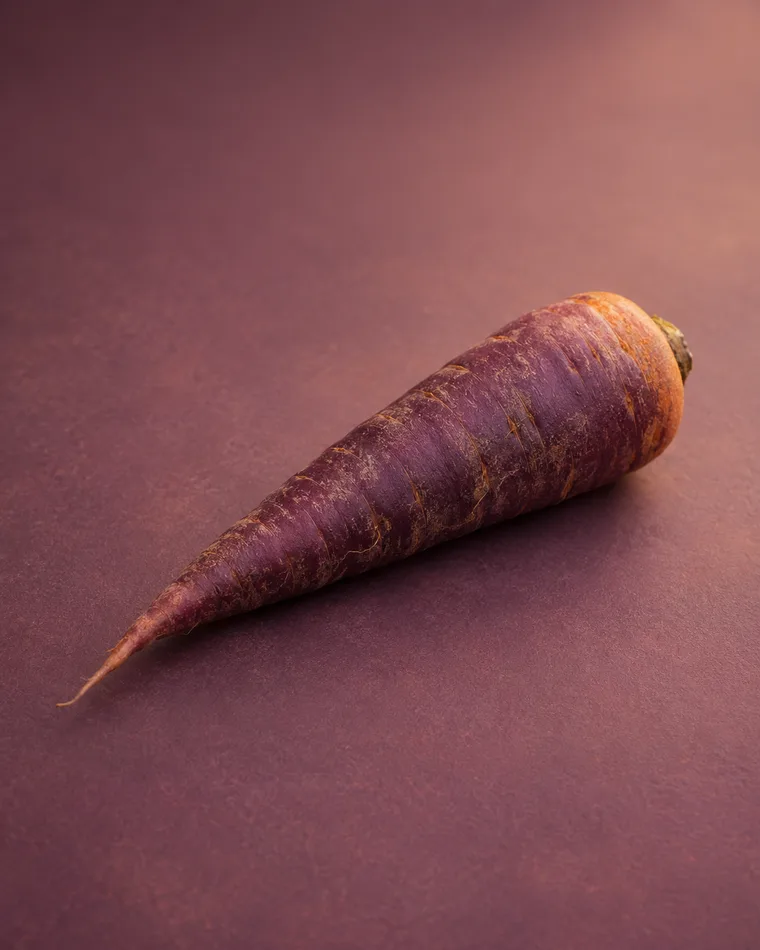
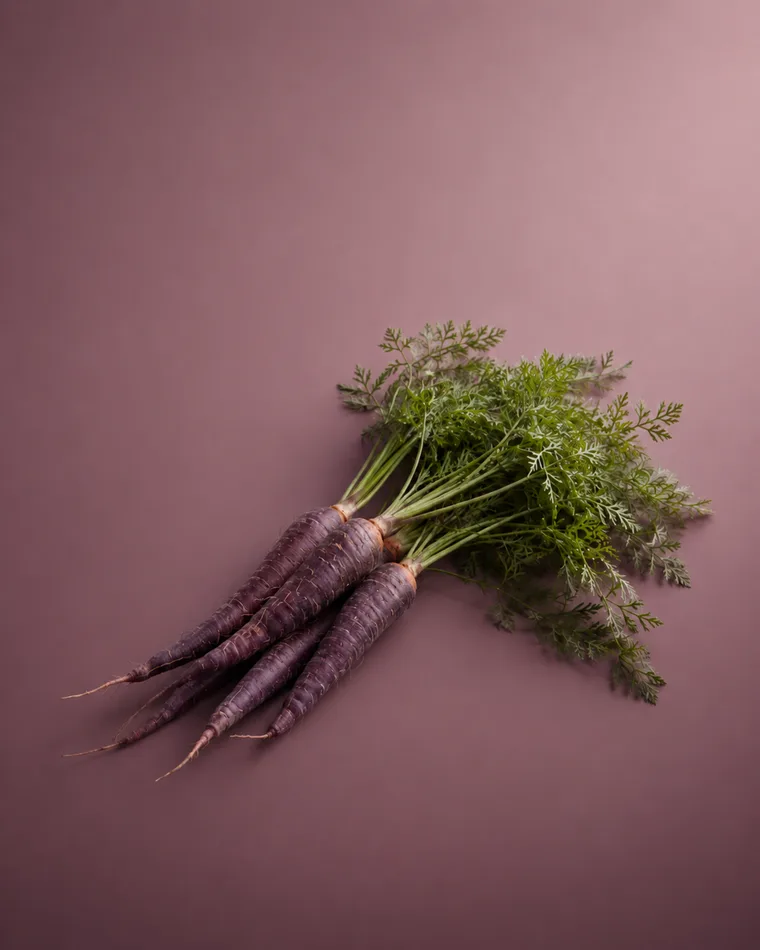
feat(fotos): 72 nye frøkort fra indbakken — 222-batchens grøntsagssorter
Studioformat 1122×1402 → 760px palette-PNG q80 + webp q82 (sharp-batch,
filnavne var slugs). 8 fil-erstatninger af eksisterende kort (bl.a.
aert-ambrosia, gulerod-purple-haze, squash-black-beauty). SLUG-QA
fangede to fejl før commit: 'kaalroe-wilhelmsburge' omdøbt til kanonisk
kaalroe-wilhelmsburger (sorten fandtes allerede med korrekt stavning —
dublet-slug afværget; ny png vinder over gammel jpg i resolveren) og
'burpees-golden' → roedbede-burpee-s-golden (apostrof-reglen, jf.
benary-s). Brandet Palmekål-variant IKKE brugt (frøkortet fandtes) —
arkiveret mærket. resolveSeedCard-QA grøn. Manifest 1182 billeder.
Originaler i _foto-indbakke/arkiv/2026-08-12/.

diff --git a/src/data/image-manifest.generated.ts b/src/data/image-manifest.generated.ts
@@ -8,7 +8,7 @@
  * public/images/. resolvePotalotImage() bruger den til at afgøre
  * om et asset-convention-path findes inden det returneres.
  *
- * Fil-tæller: 1058
+ * Fil-tæller: 1182
  */
 
 export const IMAGE_MANIFEST: ReadonlySet<string> = new Set([
@@ -255,6 +255,14 @@ export const IMAGE_MANIFEST: ReadonlySet<string> = new Set([
   "/images/frokort/agurk-telegraph.webp",
   "/images/frokort/ananas-salvie-scarlet-pineapple.png",
   "/images/frokort/ananas-salvie-scarlet-pineapple.webp",
+  "/images/frokort/artiskok-green-globe.png",
+  "/images/frokort/artiskok-green-globe.webp",
+  "/images/frokort/asparges-gijnlim-f1.png",
+  "/images/frokort/asparges-gijnlim-f1.webp",
+  "/images/frokort/aubergine-black-beauty.png",
+  "/images/frokort/aubergine-black-beauty.webp",
+  "/images/frokort/aubergine-rosa-bianca.png",
+  "/images/frokort/aubergine-rosa-bianca.webp",
   "/images/frokort/basilikum-genovese.png",
   "/images/frokort/basilikum-genovese.webp",
   "/images/frokort/blaabaer-bluecrop.png",
@@ -263,8 +271,18 @@ export const IMAGE_MANIFEST: ReadonlySet<string> = new Set([
   "/images/frokort/blaabaer-duke.webp",
   "/images/frokort/blaahat-perfecta.png",
   "/images/frokort/blaahat-perfecta.webp",
+  "/images/frokort/bladbede-fordhook-giant.png",
+  "/images/frokort/bladbede-fordhook-giant.webp",
+  "/images/frokort/bladbede-rhubarb-chard.png",
+  "/images/frokort/bladbede-rhubarb-chard.webp",
   "/images/frokort/bladselleri-tango.jpg",
   "/images/frokort/bladselleri-tango.webp",
+  "/images/frokort/blomkaal-cheddar-f1.png",
+  "/images/frokort/blomkaal-cheddar-f1.webp",
+  "/images/frokort/blomkaal-graffiti-f1.png",
+  "/images/frokort/blomkaal-graffiti-f1.webp",
+  "/images/frokort/blomkaal-snowball-x.png",
+  "/images/frokort/blomkaal-snowball-x.webp",
   "/images/frokort/blomkaal-snowball.jpg",
   "/images/frokort/blomkaal-snowball.webp",
   "/images/frokort/blomme-victoria.jpg",
@@ -274,12 +292,20 @@ export const IMAGE_MANIFEST: ReadonlySet<string> = new Set([
   "/images/frokort/blomsterkoervel-white-lace.webp",
   "/images/frokort/bonderose-sarah-bernhardt.png",
   "/images/frokort/bonderose-sarah-bernhardt.webp",
+  "/images/frokort/broccoli-aspabroc-f1.png",
+  "/images/frokort/broccoli-aspabroc-f1.webp",
   "/images/frokort/broccoli-calabrese.jpg",
   "/images/frokort/broccoli-calabrese.webp",
+  "/images/frokort/broccoli-early-purple-sprouting.png",
+  "/images/frokort/broccoli-early-purple-sprouting.webp",
   "/images/frokort/broendkarse-aqua.png",
   "/images/frokort/broendkarse-aqua.webp",
   "/images/frokort/brombaer-loch-ness.png",
   "/images/frokort/brombaer-loch-ness.webp",
+  "/images/frokort/buskboenne-provider.png",
+  "/images/frokort/buskboenne-provider.webp",
+  "/images/frokort/buskboenne-purple-queen.png",
+  "/images/frokort/buskboenne-purple-queen.webp",
   "/images/frokort/chili-de-cayenne.png",
   "/images/frokort/chili-de-cayenne.webp",
   "/images/frokort/chili-habanero-orange.png",
@@ -288,8 +314,12 @@ export const IMAGE_MANIFEST: ReadonlySet<string> = new Set([
   "/images/frokort/chili-jalapeno.webp",
   "/images/frokort/chili-lemon-drop.png",
   "/images/frokort/chili-lemon-drop.webp",
+  "/images/frokort/chili-numex-twilight.png",
+  "/images/frokort/chili-numex-twilight.webp",
   "/images/frokort/chili-padron.png",
   "/images/frokort/chili-padron.webp",
+  "/images/frokort/cikorie-catalogna.png",
+  "/images/frokort/cikorie-catalogna.webp",
   "/images/frokort/citronmelisse-citronella.png",
   "/images/frokort/citronmelisse-citronella.webp",
   "/images/frokort/citrontimian-silver-queen.png",
@@ -308,15 +338,20 @@ export const IMAGE_MANIFEST: ReadonlySet<string> = new Set([
   "/images/frokort/dahlia-thomas-edison.webp",
   "/images/frokort/dild-bouquet.png",
   "/images/frokort/dild-bouquet.webp",
+  "/images/frokort/endivie-escariol-green.png",
+  "/images/frokort/endivie-escariol-green.webp",
   "/images/frokort/engblomme-golden-queen.png",
   "/images/frokort/engblomme-golden-queen.webp",
   "/images/frokort/estragon-french.png",
   "/images/frokort/estragon-french.webp",
+  "/images/frokort/fennikel-bronze.png",
+  "/images/frokort/fennikel-bronze.webp",
   "/images/frokort/fersken-redhaven.png",
   "/images/frokort/fersken-redhaven.webp",
   "/images/frokort/figen-brown-turkey.png",
   "/images/frokort/figen-brown-turkey.webp",
   "/images/frokort/foraarsloeg-white-lisbon.jpg",
+  "/images/frokort/foraarsloeg-white-lisbon.png",
   "/images/frokort/foraarsloeg-white-lisbon.webp",
   "/images/frokort/fransk-anemone-de-caen-red.png",
   "/images/frokort/fransk-anemone-de-caen-red.webp",
@@ -336,12 +371,18 @@ export const IMAGE_MANIFEST: ReadonlySet<string> = new Set([
   "/images/frokort/graeskar-waltham-butternut.webp",
   "/images/frokort/groenkaal-red-russian.png",
   "/images/frokort/groenkaal-red-russian.webp",
+  "/images/frokort/groenkaal-redbor-f1.png",
+  "/images/frokort/groenkaal-redbor-f1.webp",
   "/images/frokort/gulerod-nantes.png",
   "/images/frokort/gulerod-nantes.webp",
+  "/images/frokort/gulerod-paris-market.png",
+  "/images/frokort/gulerod-paris-market.webp",
   "/images/frokort/gulerod-purple-haze.png",
   "/images/frokort/gulerod-purple-haze.webp",
   "/images/frokort/hassel-cosford.png",
   "/images/frokort/hassel-cosford.webp",
+  "/images/frokort/havrerod-mammoth-sandwich-island.png",
+  "/images/frokort/havrerod-mammoth-sandwich-island.webp",
   "/images/frokort/hindbaer-autumn-bliss.png",
   "/images/frokort/hindbaer-autumn-bliss.webp",
   "/images/frokort/hindbaer-tulameen.png",
@@ -354,6 +395,8 @@ export const IMAGE_MANIFEST: ReadonlySet<string> = new Set([
   "/images/frokort/hvidloeg-messidrome.webp",
   "/images/frokort/hvidloeg-printanor.png",
   "/images/frokort/hvidloeg-printanor.webp",
+  "/images/frokort/hvidloeg-purple-wight.png",
+  "/images/frokort/hvidloeg-purple-wight.webp",
   "/images/frokort/hvidloeg-sabadrome.png",
   "/images/frokort/hvidloeg-sabadrome.webp",
   "/images/frokort/hvidloeg-thermidrome.png",
@@ -368,20 +411,43 @@ export const IMAGE_MANIFEST: ReadonlySet<string> = new Set([
   "/images/frokort/jordbaer-mara-des-bois.webp",
   "/images/frokort/jordbaer-polka.png",
   "/images/frokort/jordbaer-polka.webp",
+  "/images/frokort/jordbaer-white-soul.png",
+  "/images/frokort/jordbaer-white-soul.webp",
+  "/images/frokort/jordmandel-chufa.png",
+  "/images/frokort/jordmandel-chufa.webp",
+  "/images/frokort/jordskok-fuseau.png",
+  "/images/frokort/jordskok-fuseau.webp",
   "/images/frokort/jungleagurk-mexican-sour-gherkin.png",
   "/images/frokort/jungleagurk-mexican-sour-gherkin.webp",
+  "/images/frokort/kaalrabi-azur-star.png",
+  "/images/frokort/kaalrabi-azur-star.webp",
   "/images/frokort/kaalroe-wilhelmsburger.jpg",
+  "/images/frokort/kaalroe-wilhelmsburger.png",
   "/images/frokort/kaalroe-wilhelmsburger.webp",
+  "/images/frokort/kardon-bianco-avorio.png",
+  "/images/frokort/kardon-bianco-avorio.webp",
+  "/images/frokort/kartoffel-mayan-gold.png",
+  "/images/frokort/kartoffel-mayan-gold.webp",
   "/images/frokort/kartoffel-solist.jpg",
   "/images/frokort/kartoffel-solist.webp",
+  "/images/frokort/kartoffel-vitelotte.png",
+  "/images/frokort/kartoffel-vitelotte.webp",
+  "/images/frokort/kinakaal-michihili.png",
+  "/images/frokort/kinakaal-michihili.webp",
+  "/images/frokort/kinakaal-scarlette-f1.png",
+  "/images/frokort/kinakaal-scarlette-f1.webp",
   "/images/frokort/kirsebaer-stella.png",
   "/images/frokort/kirsebaer-stella.webp",
   "/images/frokort/klematis-princess-diana.png",
   "/images/frokort/klematis-princess-diana.webp",
+  "/images/frokort/knoldfennikel-romanesco.png",
+  "/images/frokort/knoldfennikel-romanesco.webp",
   "/images/frokort/knoldselleri-monarch.jpg",
   "/images/frokort/knoldselleri-monarch.webp",
   "/images/frokort/koervel-vertissimo.png",
   "/images/frokort/koervel-vertissimo.webp",
+  "/images/frokort/komatsuna-green-boy.png",
+  "/images/frokort/komatsuna-green-boy.webp",
   "/images/frokort/koriander-leisure.jpg",
   "/images/frokort/koriander-leisure.webp",
   "/images/frokort/kornblomst-blue-boy.png",
@@ -402,6 +468,8 @@ export const IMAGE_MANIFEST: ReadonlySet<string> = new Set([
   "/images/frokort/levkoej-vintage-rose.webp",
   "/images/frokort/levkoej-white-goddess.png",
   "/images/frokort/levkoej-white-goddess.webp",
+  "/images/frokort/loeg-long-red-florence.png",
+  "/images/frokort/loeg-long-red-florence.webp",
   "/images/frokort/loeg-sturon.png",
   "/images/frokort/loeg-sturon.webp",
   "/images/frokort/loevemund-potomac-appleblossom.png",
@@ -411,6 +479,7 @@ export const IMAGE_MANIFEST: ReadonlySet<string> = new Set([
   "/images/frokort/maelkeklokke-prichard-s-variety.png",
   "/images/frokort/maelkeklokke-prichard-s-variety.webp",
   "/images/frokort/majroe-purple-top-milan.jpg",
+  "/images/frokort/majroe-purple-top-milan.png",
   "/images/frokort/majroe-purple-top-milan.webp",
   "/images/frokort/majs-golden-bantam.png",
   "/images/frokort/majs-golden-bantam.webp",
@@ -418,10 +487,14 @@ export const IMAGE_MANIFEST: ReadonlySet<string> = new Set([
   "/images/frokort/majs-incredible-f1.webp",
   "/images/frokort/majs-sweet-nugget.png",
   "/images/frokort/majs-sweet-nugget.webp",
+  "/images/frokort/mangold-bright-lights.png",
+  "/images/frokort/mangold-bright-lights.webp",
   "/images/frokort/marguerit-alaska.png",
   "/images/frokort/marguerit-alaska.webp",
   "/images/frokort/mirabel-nancy.png",
   "/images/frokort/mirabel-nancy.webp",
+  "/images/frokort/mizuna-early.png",
+  "/images/frokort/mizuna-early.webp",
   "/images/frokort/morgenfrue-indian-prince.png",
   "/images/frokort/morgenfrue-indian-prince.webp",
   "/images/frokort/mynte-after-eight.png",
@@ -432,6 +505,8 @@ export const IMAGE_MANIFEST: ReadonlySet<string> = new Set([
   "/images/frokort/nigella-african-bride.webp",
   "/images/frokort/nigella-miss-jekyll-blue.png",
   "/images/frokort/nigella-miss-jekyll-blue.webp",
+  "/images/frokort/okra-clemson-spineless.png",
+  "/images/frokort/okra-clemson-spineless.webp",
   "/images/frokort/oregano-greek.png",
   "/images/frokort/oregano-greek.webp",
   "/images/frokort/paeonvalmue-coral-reef.png",
@@ -439,14 +514,22 @@ export const IMAGE_MANIFEST: ReadonlySet<string> = new Set([
   "/images/frokort/paere-conference.jpg",
   "/images/frokort/paere-conference.png",
   "/images/frokort/paere-conference.webp",
+  "/images/frokort/pak-choi-joi-choi-f1.png",
+  "/images/frokort/pak-choi-joi-choi-f1.webp",
   "/images/frokort/pak-choi-joi-choi.png",
   "/images/frokort/pak-choi-joi-choi.webp",
+  "/images/frokort/pak-choi-red-choi.png",
+  "/images/frokort/pak-choi-red-choi.webp",
   "/images/frokort/palmekaal-nero-di-toscana.jpg",
   "/images/frokort/palmekaal-nero-di-toscana.webp",
+  "/images/frokort/pastinak-gladiator-f1.png",
+  "/images/frokort/pastinak-gladiator-f1.webp",
   "/images/frokort/pastinak-white-gem.jpg",
   "/images/frokort/pastinak-white-gem.webp",
   "/images/frokort/peberfrugt-california-wonder.png",
   "/images/frokort/peberfrugt-california-wonder.webp",
+  "/images/frokort/peberfrugt-chocolate-beauty.png",
+  "/images/frokort/peberfrugt-chocolate-beauty.webp",
   "/images/frokort/peberfrugt-corno-di-toro-giallo.png",
   "/images/frokort/peberfrugt-corno-di-toro-giallo.webp",
   "/images/frokort/peberfrugt-corno-di-toro-rosso.png",
@@ -455,13 +538,25 @@ export const IMAGE_MANIFEST: ReadonlySet<string> = new Set([
   "/images/frokort/peberfrugt-purple-beauty.webp",
   "/images/frokort/peberfrugt-yolo-wonder.png",
   "/images/frokort/peberfrugt-yolo-wonder.webp",
+  "/images/frokort/peberrod-bohemia.png",
+  "/images/frokort/peberrod-bohemia.webp",
   "/images/frokort/persille-bredbladet.jpg",
   "/images/frokort/persille-bredbladet.png",
   "/images/frokort/persille-bredbladet.webp",
+  "/images/frokort/persillerod-berliner.png",
+  "/images/frokort/persillerod-berliner.webp",
   "/images/frokort/persillerod.jpg",
   "/images/frokort/persillerod.webp",
+  "/images/frokort/porre-musselburgh.png",
+  "/images/frokort/porre-musselburgh.webp",
   "/images/frokort/purloeg-prager.png",
   "/images/frokort/purloeg-prager.webp",
+  "/images/frokort/rabarber-timperley-early.png",
+  "/images/frokort/rabarber-timperley-early.webp",
+  "/images/frokort/rabarber-victoria.png",
+  "/images/frokort/rabarber-victoria.webp",
+  "/images/frokort/radise-black-spanish-round.png",
+  "/images/frokort/radise-black-spanish-round.webp",
   "/images/frokort/radise-cherry-belle.png",
   "/images/frokort/radise-cherry-belle.webp",
   "/images/frokort/radise-french-breakfast.png",
@@ -483,6 +578,14 @@ export const IMAGE_MANIFEST: ReadonlySet<string> = new Set([
   "/images/frokort/roedbede-boldor.webp",
   "/images/frokort/roedbede-boltardy.png",
   "/images/frokort/roedbede-boltardy.webp",
+  "/images/frokort/roedbede-burpee-s-golden.png",
+  "/images/frokort/roedbede-burpee-s-golden.webp",
+  "/images/frokort/roedbede-chioggia.png",
+  "/images/frokort/roedbede-chioggia.webp",
+  "/images/frokort/roedkaal-rodynda.png",
+  "/images/frokort/roedkaal-rodynda.webp",
+  "/images/frokort/romanesco-veronica-f1.png",
+  "/images/frokort/romanesco-veronica-f1.webp",
   "/images/frokort/rose-gertrude-jekyll.png",
   "/images/frokort/rose-gertrude-jekyll.webp",
   "/images/frokort/rose-lykkefund.png",
@@ -496,7 +599,10 @@ export const IMAGE_MANIFEST: ReadonlySet<string> = new Set([
   "/images/frokort/rose-victor-borge.png",
   "/images/frokort/rose-victor-borge.webp",
   "/images/frokort/rosenkaal-long-island-improved.jpg",
+  "/images/frokort/rosenkaal-long-island-improved.png",
   "/images/frokort/rosenkaal-long-island-improved.webp",
+  "/images/frokort/rosenkaal-red-bull.png",
+  "/images/frokort/rosenkaal-red-bull.webp",
   "/images/frokort/rosmarin-tuscan-blue.png",
   "/images/frokort/rosmarin-tuscan-blue.webp",
   "/images/frokort/rucola-standard.png",
@@ -514,10 +620,24 @@ export const IMAGE_MANIFEST: ReadonlySet<string> = new Set([
   "/images/frokort/salat-lollo-rossa.webp",
   "/images/frokort/salvie-berggarten.png",
   "/images/frokort/salvie-berggarten.webp",
+  "/images/frokort/savoykaal-vertus-2.png",
+  "/images/frokort/savoykaal-vertus-2.webp",
+  "/images/frokort/selleri-monarch.png",
+  "/images/frokort/selleri-monarch.webp",
+  "/images/frokort/selleri-prinz.png",
+  "/images/frokort/selleri-prinz.webp",
+  "/images/frokort/selleri-tango.png",
+  "/images/frokort/selleri-tango.webp",
+  "/images/frokort/sennepskaal-red-giant.png",
+  "/images/frokort/sennepskaal-red-giant.webp",
   "/images/frokort/setaria-red-jewel.png",
   "/images/frokort/setaria-red-jewel.webp",
+  "/images/frokort/skorzonerrod-duplex.png",
+  "/images/frokort/skorzonerrod-duplex.webp",
   "/images/frokort/skovanemone-alba.png",
   "/images/frokort/skovanemone-alba.webp",
+  "/images/frokort/soed-kartoffel-beauregard.png",
+  "/images/frokort/soed-kartoffel-beauregard.webp",
   "/images/frokort/solbaer-ben-lomond.png",
   "/images/frokort/solbaer-ben-lomond.webp",
   "/images/frokort/solbaer-ben-sarek.png",
@@ -540,6 +660,8 @@ export const IMAGE_MANIFEST: ReadonlySet<string> = new Set([
   "/images/frokort/squash-gold-rush.webp",
   "/images/frokort/squash-sunburst.png",
   "/images/frokort/squash-sunburst.webp",
+  "/images/frokort/squash-yellow-crookneck.png",
+  "/images/frokort/squash-yellow-crookneck.webp",
   "/images/frokort/stangboenne-blauhilde.png",
   "/images/frokort/stangboenne-blauhilde.webp",
   "/images/frokort/stangboenne-cobra.png",
@@ -559,6 +681,8 @@ export const IMAGE_MANIFEST: ReadonlySet<string> = new Set([
   "/images/frokort/storkenaeb-rozanne.webp",
   "/images/frokort/tagetes-lemon-gem.png",
   "/images/frokort/tagetes-lemon-gem.webp",
+  "/images/frokort/tatsoi-rosette.png",
+  "/images/frokort/tatsoi-rosette.webp",
   "/images/frokort/timian-german-winter.png",
   "/images/frokort/timian-german-winter.webp",
   "/images/frokort/tomat-black-cherry.png",
